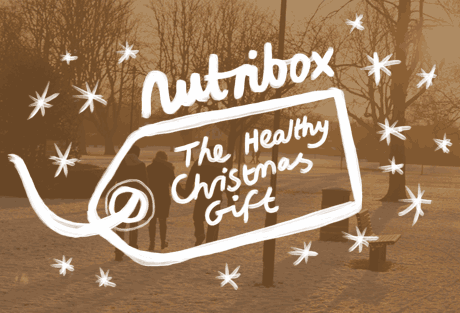
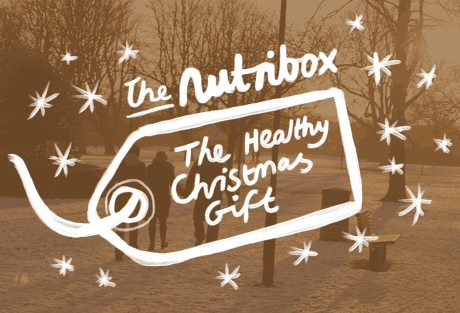
Updated christmas doodle and browser testing

Changed region(s): [[0.2739, 0.115, 0.7304, 0.3738]]

diff --git a/app/assets/stylesheets/application.css b/app/assets/stylesheets/application.css
@@ -417,7 +417,7 @@ input#email-signup-input {
   color: #fff;
   text-shadow: none;
   font-weight: bold;
-  padding: 15px 20px;
+  padding: 15px 17px;
   margin: 0 0 0 10px;
 }
 
@@ -477,6 +477,7 @@ a.twitter-link {
   background: none;
   z-index: 10;
 	padding: 0;
+	filter:none;
 }
 .header-navbar-fixed {
 	position: fixed;
@@ -1025,6 +1026,23 @@ ul.box-options li {
 #delivery_step p.lead{
   margin-left:30px;
 }
+
+p.delivery-notice-text {
+	color: #ffffff;
+	font-size: 13px;
+	text-align: center;
+	margin: 0;
+  
+}
+
+#delivery-notice {
+  background: url(/assets/delivery-notice-christmas.png) no-repeat 0 0;
+  padding: 14px 0;
+}
+
+
+
+
 #register_step .accordion-group {
   border:none;
 }
@@ -1139,7 +1157,7 @@ margin-left: 40px ;
 
 
 /*  For christmas- comment out afterwards  */
-body#inside.controller_orders.action_new .gift-wrapper {
+.gift-wrapper {
   background: url(/assets/give-christmas-bg.png) no-repeat top center;
 }
 .gift-first-title {
